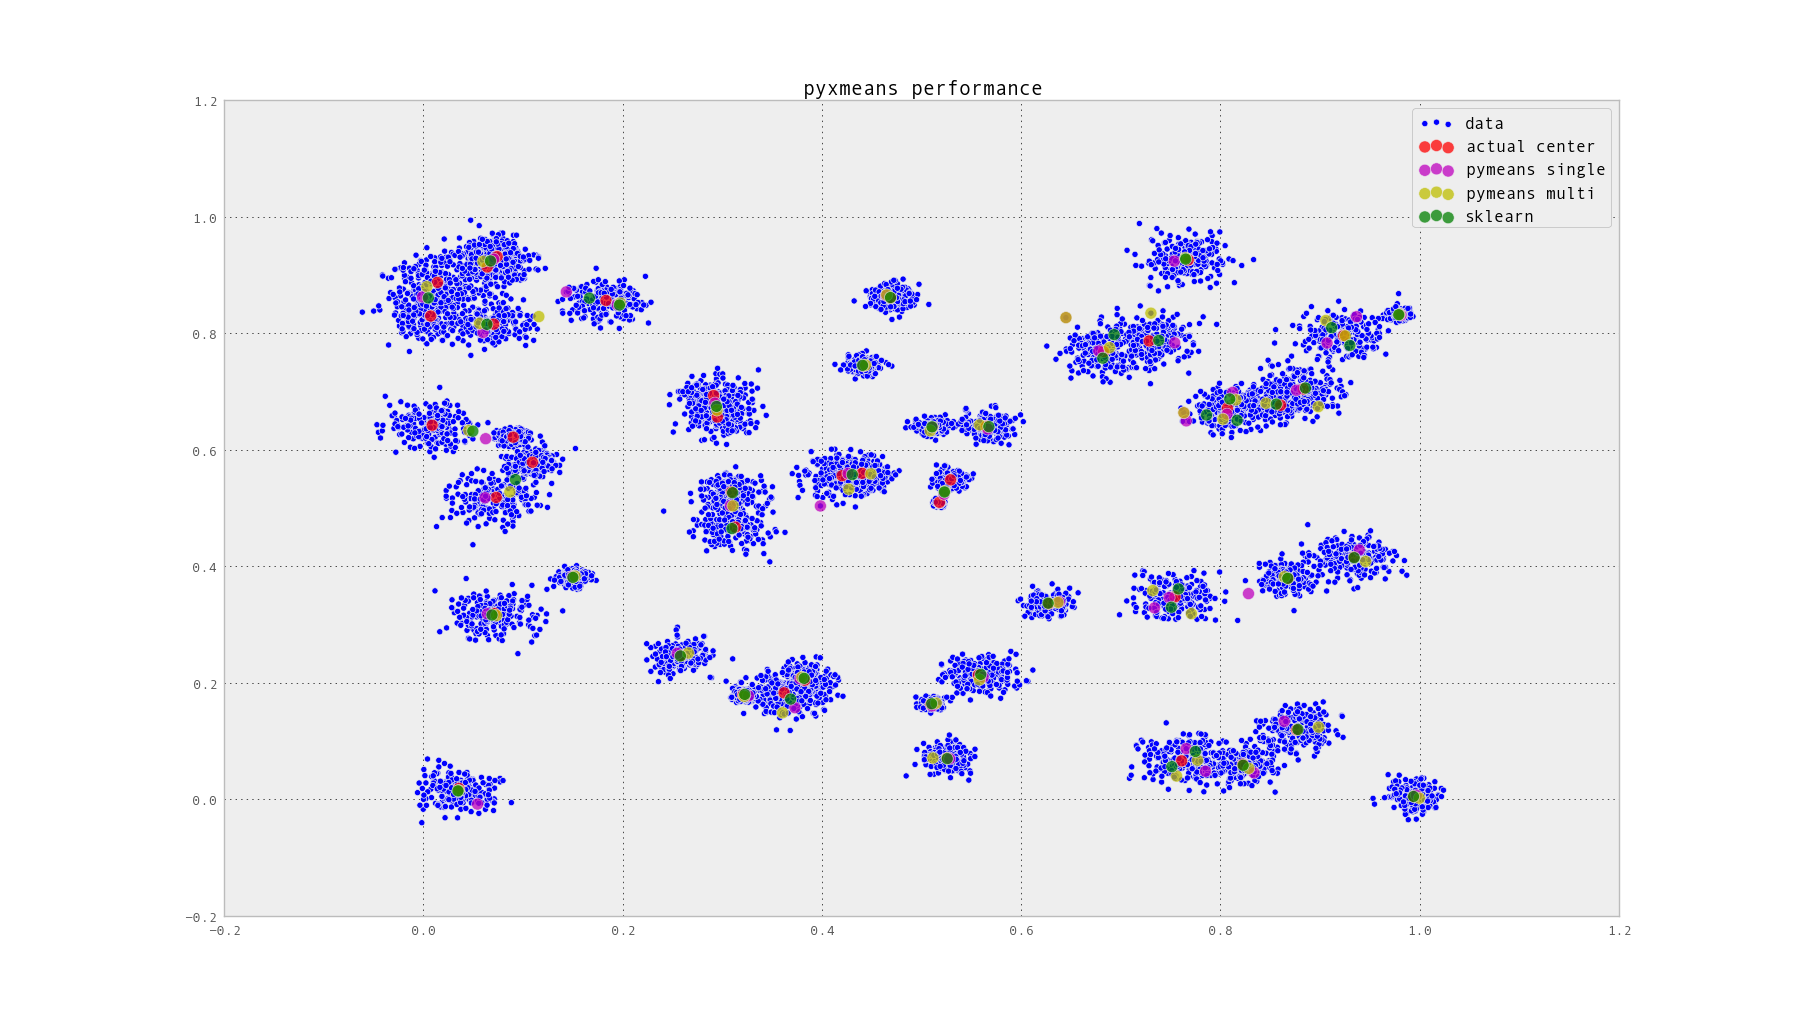
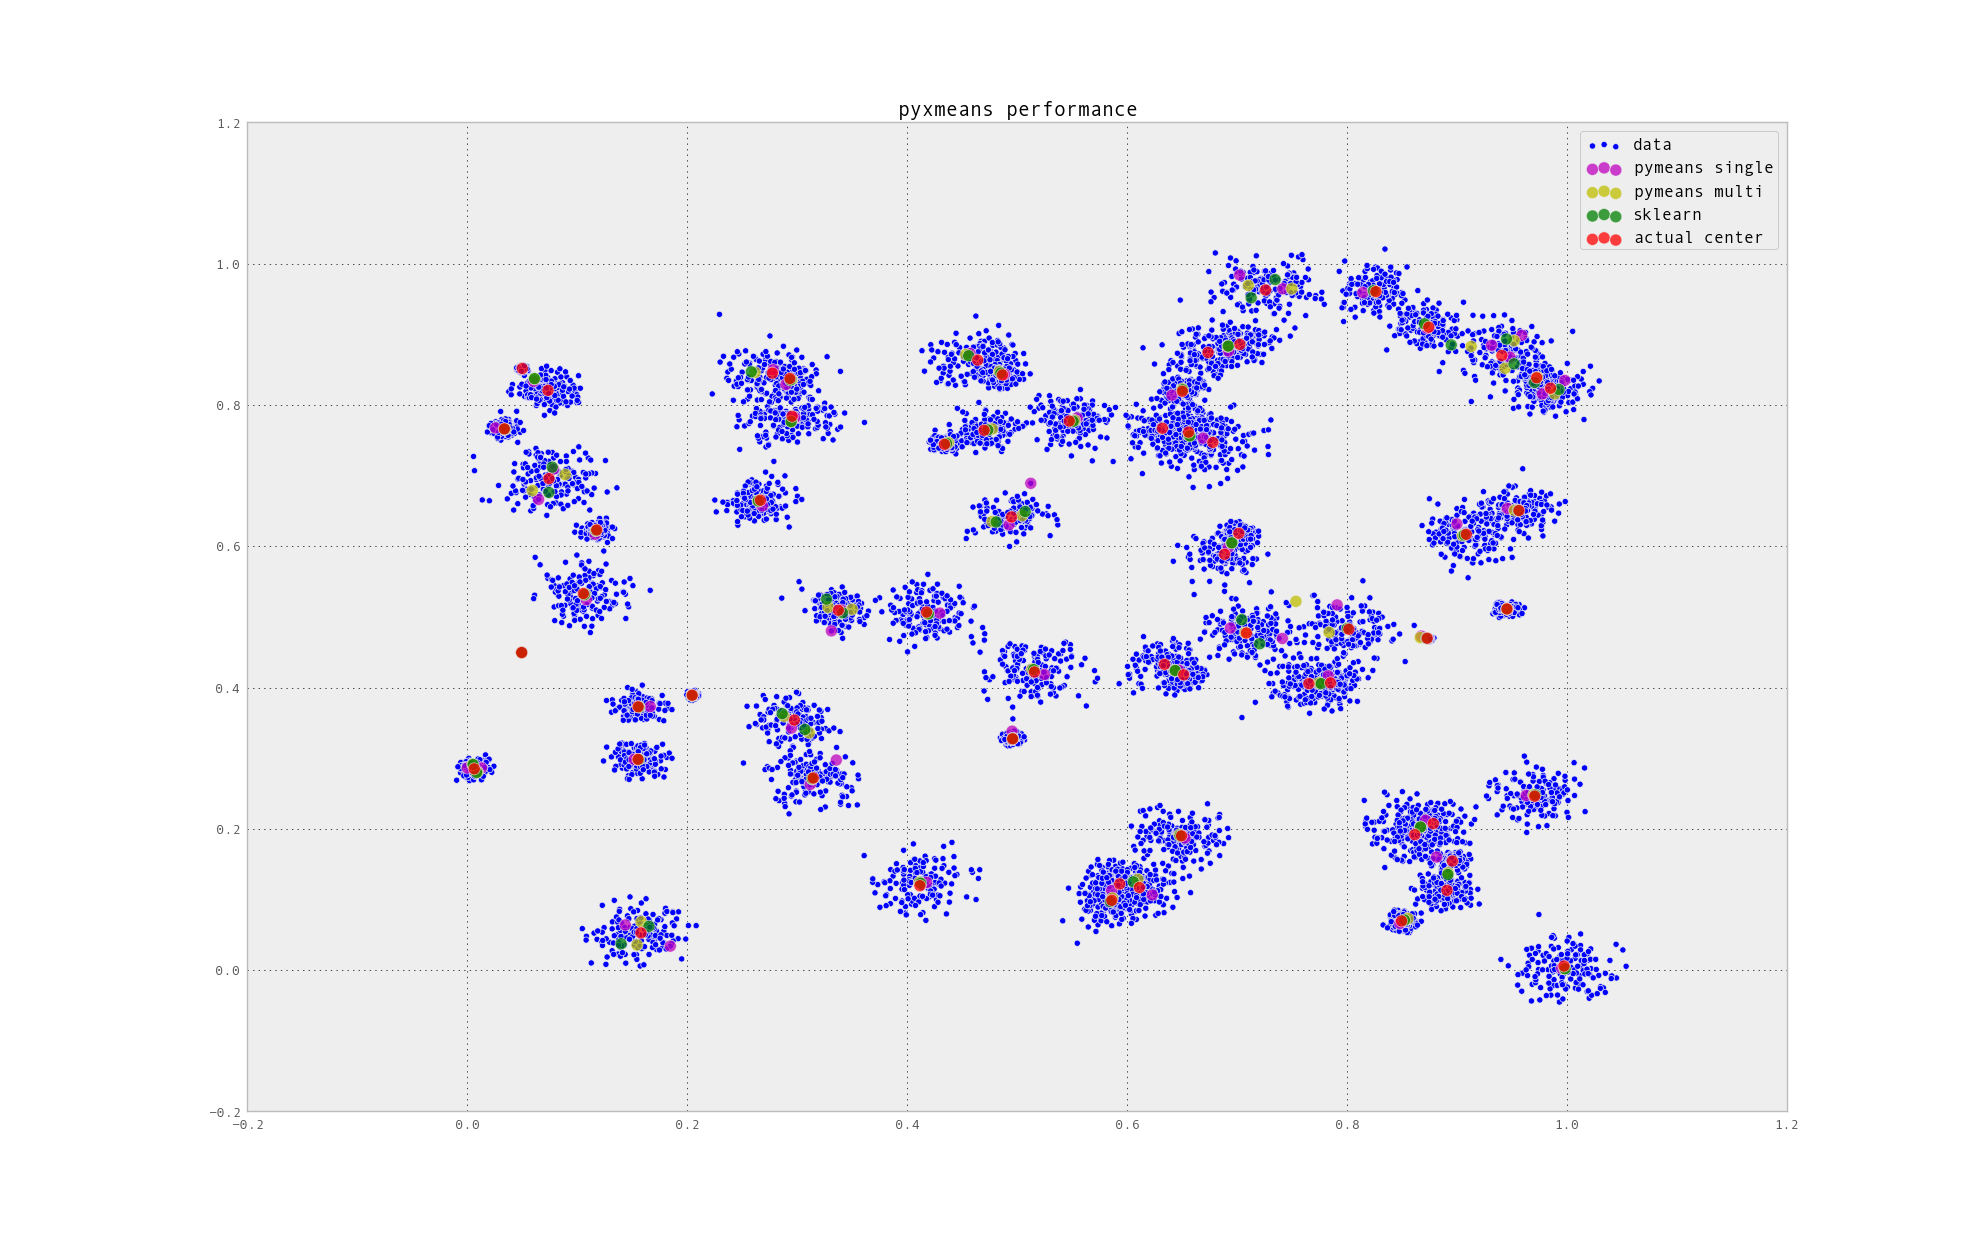
Added python wrapper class and various little things

diff --git a/pyxmeans/mini_batch.py b/pyxmeans/mini_batch.py
@@ -1,0 +1,145 @@
+#!/usr/bin/env python2.7
+
+import numpy as np
+import _minibatch
+
+import multiprocessing
+
+class MiniBatch(object):
+    def __init__(self, n_clusters, n_samples=None, max_iter=1000, n_runs=4, n_init=3, init='kmeanspp', n_jobs=-1, compute_labels=False):
+        """
+        Create a MiniBatch model as described in http://www.eecs.tufts.edu/~dsculley/papers/fastkmeans.pdf
+
+        :param n_clusters: Number of clusters to classify
+        :type n_clusters: int
+
+        :param n_samples: Number of samples to consider for each iteration of
+                          the fit
+        :type n_samples: int
+
+        :param max_iter: Maximum number of iterations of MiniBatch to perform
+        :type max_iter: int
+
+        :param n_runs: Number of independent MiniBatch runs to perform when
+                       running multiple jobs. The result with the best variance
+                       will be picked.
+        :type n_runs: int
+
+        :param n_init: Number of attempts at initializing the cluster centers
+                       when using kmeans++. The cluster centers with the best
+                       variance will be picked.
+        :type n_init: int
+
+        :param init: Method of cluster initialization.  Can be 'kmeans++',
+                     'random' or an ndarray of pre-computed centers
+        :type init: string or ndarray(double), shape = (n_clusters, n_features)
+
+        :param n_jobs: Number of concurrent jobs to run.  A value of 1 will run
+                       things serially, a positive number will run with that
+                       number of cores and a negative value will leave that
+                       many cores free (ie: '0' will run on all cores, '-1'
+                       will run on all but one core, etc..)
+        :type n_jobs: int
+
+        :param computer_labels: Whether to calculate the labels for the data
+                                the model is fit with.  This data is available
+                                in MiniBatch.labels_
+        :type compute_labels: bool
+
+        :returns: Trained MiniBatch instance
+        :rtype: MiniBatch
+        """
+        self.n_clusters = n_clusters
+        self.n_samples = n_samples or 10 * n_clusters
+        self.init = init
+        self.max_iter = max_iter
+        self.n_runs = n_runs
+        self.n_init = n_init
+        self.n_jobs = n_jobs
+        self.compute_labels = compute_labels
+
+        self.cluster_centers_ = None
+        self.labels_ = None
+
+        if n_jobs <= 0:
+            self.n_jobs = multiprocessing.cpu_count() - n_jobs
+
+
+    def fit(self, data):
+        """
+        Fit the current model with the inputted data.
+
+        :param data: Samples to fit model with
+        :type data: ndarray(double), shape = (n_samples, n_features)
+        :returns: Trained MiniBatch instance
+        :rtype: MiniBatch
+        """
+        data = np.asarray(data, dtype=np.double)
+        if self.init == 'random':
+            self.cluster_centers_ = np.random.random((self.n_clusters, data.shape[1]), dtype=np.double)
+        elif self.init == 'kmeans++':
+            self.cluster_centers_ = np.zeros((self.n_clusters, data.shape[1]), dtype=np.double)
+            if self.n_jobs > 1:
+                self.cluster_centers_ = _minibatch.kmeanspp_multi(data, self.cluster_centers_, self.n_samples, self.n_init, self.n_jobs)
+            else:
+                self.cluster_centers_ = _minibatch.kmeanspp(data, self.cluster_centers_, self.n_samples, self.n_init)
+        elif isinstance(self.init, np.ndarray):
+            if not self.init.flags['C_CONTIGUOUS']:
+                raise Exception("init ndarray must be C_CONTIGUOUS")
+            elif self.init.shape != (self.n_clusters, data.shape[1]):
+                raise Exception("init cluster not of correct shape %r != (%d, %d)" % (self.init.shape, self.n_clusters, data.shape[1]))
+            self.cluster_centers_ = self.init
+
+        if self.n_jobs > 1:
+            self.cluster_centers_ =  _minibatch.minibatch_multi(data, self.cluster_centers_, self.n_samples, self.max_iter, self.n_runs, self.n_jobs, -1.0)
+        else:
+            self.cluster_centers_ =  _minibatch.minibatch(data, self.cluster_centers_, self.n_samples, self.max_iter, -1.0)
+
+        if self.compute_labels:
+            self.labels_ = np.zeros((data.shape[0], ), dtype=np.intc)
+            self.labels_ = _minibatch.assign_centroids(data, self.cluster_centers_, self.labels_, self.n_jobs)
+
+        return self
+
+
+    def predict(self, data):
+        """
+        Labels the data given the fitted mode.
+
+        :param data: Samples to classify
+        :type data: ndarray(double), shape = (n_samples, n_features)
+        :returns: Index into MiniBatch.cluster_centers_ for each datapoint in
+                  data
+        :rtype: ndarray(intc), shape = (n_samples,)
+        """
+        assert self.cluster_centers_ is not None, "Model not yet fitted"
+        labels = np.zeros((data.shape[0], ), dtype=np.intc)
+        labels = _minibatch.assign_centroids(data, self.cluster_centers_, labels, self.n_jobs)
+        return labels
+
+
+    def variance(self, data):
+        """
+        Returns the variance, or inertia, of the fitted model given the data
+
+        :param data: Data to use in calculation of the variance
+        :type data: ndarray(double), shape = (n_samples, n_features)
+        :rtype: float
+        """
+        assert self.cluster_centers_ is not None, "Model not yet fitted"
+        return _minibatch.model_variance(data, self.cluster_centers_)
+
+
+    def bic(self, data):
+        """
+        Returns the Bayesian information criterion for the fitted model given
+        the data
+
+        :param data: Data to use in calculation of the Bayesian information
+                     criterion
+        :type data: ndarray(double), shape = (n_samples, n_features)
+        :rtype: float
+        """
+        assert self.cluster_centers_ is not None, "Model not yet fitted"
+        return _minibatch.bic(data, self.cluster_centers_)
+

diff --git a/pyxmeans/benchmark.py b/pyxmeans/benchmark.py
@@ -3,6 +3,7 @@ import random
 import time
 from contextlib import contextmanager
 from pyxmeans import _minibatch
+from pyxmeans.mini_batch import MiniBatch
 import pylab as py
 
 try:
@@ -38,33 +39,36 @@ if __name__ == "__main__":
     print "Creating data"
     N = 10000
     D = 2
-    k = 48
+    k = 64
 
     data, actual = generate_data(N, D, k, sigma=0.0005)
     actual_data = np.asarray([x["mean"] for x in actual])
-    clusters = _minibatch.kmeanspp_multi(data, np.empty((k, D)), N / 100, 20, 4)
+    clusters = _minibatch.kmeanspp_multi(data, np.empty((k, D), dtype=np.double), N / 100, 20, 4)
     print "Number of points: ", N
     print "Number of dimensions: ", D
     print "Number of clusters: ", k
     print "initial BIC: ", _minibatch.bic(data, clusters)
     print "initial variance: ", _minibatch.model_variance(data, clusters)
+    print "initial RMS Error: ", error(actual_data, clusters)
     print
 
     print "Clustering with single-threaded pyxmeans"
     clusters_pymeans_single = clusters.copy()
     with TimerBlock("singlethreaded pyxmeans"):
-        clusters_pymeans_single = _minibatch.minibatch(data, clusters_pymeans_single, k*5, 100, -1.0)
-    print "BIC of single-threaded pyxmeans: ", _minibatch.bic(data, clusters_pymeans_single)
-    print "Variance of single-threaded pyxmeans: ", _minibatch.model_variance(data, clusters_pymeans_single)
+        mbst = MiniBatch(k, n_samples=k*5, max_iter=100, n_runs=1, init=clusters_pymeans_single, n_jobs=1, compute_labels=False).fit(data)
+        clusters_pymeans_single = mbst.cluster_centers_
+    print "BIC: ", _minibatch.bic(data, clusters_pymeans_single)
+    print "Variance: ", _minibatch.model_variance(data, clusters_pymeans_single)
     print "RMS Error: ", error(actual_data, clusters_pymeans_single)
     print
     
     print "Clustering with multi-threaded pyxmeans"
     clusters_pymeans_multi = clusters.copy()
     with TimerBlock("singlethreaded pyxmeans"):
-        clusters_pymeans_multi = _minibatch.minibatch_multi(data, clusters_pymeans_multi, k*5, 100, 4, 4, -1.0)
-    print "BIC of multi-threaded pyxmeans: ", _minibatch.bic(data, clusters_pymeans_multi)
-    print "Variance of multi-threaded pyxmeans: ", _minibatch.model_variance(data, clusters_pymeans_multi)
+        mbmt = MiniBatch(k, n_samples=k*5, max_iter=100, n_runs=4, init=clusters_pymeans_multi, n_jobs=0, compute_labels=False).fit(data)
+        clusters_pymeans_multi = mbmt.cluster_centers_
+    print "BIC: ", _minibatch.bic(data, clusters_pymeans_multi)
+    print "Variance: ", _minibatch.model_variance(data, clusters_pymeans_multi)
     print "RMS Error: ", error(actual_data, clusters_pymeans_multi)
     print
 
@@ -73,8 +77,8 @@ if __name__ == "__main__":
         clusters_sklearn = clusters.copy()
         with TimerBlock("singlethreaded pyxmeans"):
             mbkmv = MiniBatchKMeans(k, max_iter=100, batch_size=k*5, init=clusters_sklearn, reassignment_ratio=0, compute_labels=False, max_no_improvement=None).fit(data)
-        print "BIC of sklearn: ", _minibatch.bic(data, mbkmv.cluster_centers_)
-        print "Variance of sklearn: ", _minibatch.model_variance(data, mbkmv.cluster_centers_)
+        print "BIC: ", _minibatch.bic(data, mbkmv.cluster_centers_)
+        print "Variance: ", _minibatch.model_variance(data, mbkmv.cluster_centers_)
         print "RMS Error: ", error(actual_data, clusters_sklearn)
     else:
         print "sklearn not found"

diff --git a/pyxmeans/c_minibatch/generate_data.c b/pyxmeans/c_minibatch/generate_data.c
@@ -1,6 +1,7 @@
 #include <stdlib.h>
 #include <math.h>
 #include <time.h>
+#include <omp.h>
 #include "generate_data.h"
 
 bool relatively_prime(int A, int B){
@@ -24,18 +25,18 @@ void generate_random_indicies(int N, int n, int *sample_indicies) {
     // This uses a very simple LCG in order to quickly get n unique numbers in
     // the space [0,N)
     
-    unsigned int seed = clock() * omp_get_thread_num();
+    unsigned int seed = (int) clock() * omp_get_thread_num();
     // Pick a random starting prime in the set [2,N)
-    unsigned int prime = rand_r(&seed) % (N-3) + 2;
+    unsigned int rel_prime = rand_r(&seed) % (N-3) + 2;
 
-    while (!relatively_prime(prime, N)) {
-        prime += 1;
+    while (!relatively_prime(rel_prime, N)) {
+        rel_prime += 1;
     }
 
     int current = rand_r(&seed) & (N-1);
     for(int i=0; i<n; i++) {
         sample_indicies[i] = current;
-        current = (current + prime) % N;
+        current = (current + rel_prime) % N;
     }
 }
 

diff --git a/pyxmeans/c_minibatch/minibatch.c b/pyxmeans/c_minibatch/minibatch.c
@@ -349,7 +349,7 @@ void minibatch_iteration(double *data, double *centroids, int *sample_indicies, 
  */
 void kmeanspp(double *data, double *centroids, int n_samples, int k, int N, int D) {
     /* The first cluster is centered from a randomly chosen point in the data */
-    unsigned int seed = clock() * omp_get_thread_num();
+    unsigned int seed = (int) clock() * omp_get_thread_num();
 
     int index = (int) (rand_r(&seed) / (double)RAND_MAX * N);
     for(int i=0; i<D; i++) {

diff --git a/setup.py b/setup.py
@@ -1,7 +1,7 @@
 from distutils.core import setup, Extension
 import numpy.distutils.misc_util
 
-__version__ = "0.5.4"
+__version__ = "0.5.5"
 
 _minibatch = Extension(
     'pyxmeans._minibatch',

diff --git a/pyxmeans/__init__.py b/pyxmeans/__init__.py
@@ -1,3 +1,5 @@
-from _minibatch import *
-import benchmark
+from . import _minibatch
+from . import benchmark
+from .mini_batch import MiniBatch
+#from xmeans import XMeans
 

diff --git a/README.md b/README.md
@@ -12,30 +12,32 @@ small memory footprint.  On my 2011 MacBook Air, the following benchmarks were
 obtained (by running `python -m pyxmeans.benchmark`):
 
 ```
+$ python -m pyxmeans.benchmark
 Creating data
 Number of points:  10000
 Number of dimensions:  2
-Number of clusters:  48
-initial BIC:  -54533.9853416
-initial variance:  0.00119839264405
+Number of clusters:  64
+initial BIC:  -58614.411506
+initial variance:  0.000913536355991
+initial RMS Error:  4.78565971024
 
 Clustering with single-threaded pyxmeans
-singlethreaded pyxmeans took 0.018506s
-BIC of single-threaded pyxmeans:  -54556.7397626
-Variance of single-threaded pyxmeans:  0.000896105585028
-RMS Error:  3.66005961722
+singlethreaded pyxmeans took 0.042223s
+BIC:  -58756.6514152
+Variance:  0.000579472415021
+RMS Error:  4.79181110795
 
 Clustering with multi-threaded pyxmeans
-singlethreaded pyxmeans took 0.043338s
-BIC of multi-threaded pyxmeans:  -54951.6477002
-Variance of multi-threaded pyxmeans:  0.000840786730204
-RMS Error:  3.66460410732
+singlethreaded pyxmeans took 0.121658s
+BIC:  -58824.7853377
+Variance:  0.000493889809274
+RMS Error:  4.78514192219
 
 Clustering with sklearn
-singlethreaded pyxmeans took 29.838236s
-BIC of sklearn:  -55225.3186563
-Variance of sklearn:  0.000682348816436
-RMS Error:  3.66329123839
+singlethreaded pyxmeans took 38.058540s
+BIC:  -58909.976141
+Variance:  0.000487120549504
+RMS Error:  4.78552428169
 ```
 
 ![](benchmark.png)
@@ -46,7 +48,6 @@ NOTES:
       early-stopping.
     * RMS Error for the multi-threaded pymeans is higher because that function
       aims at minimizing the variance of the resulting model.
-
 
 
 ### Dependencies
